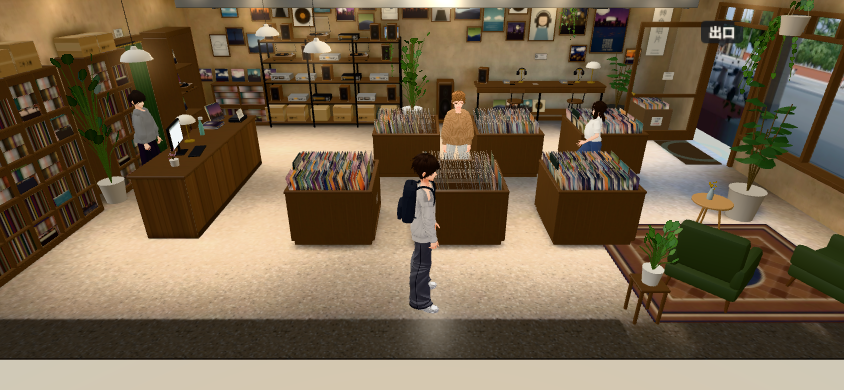
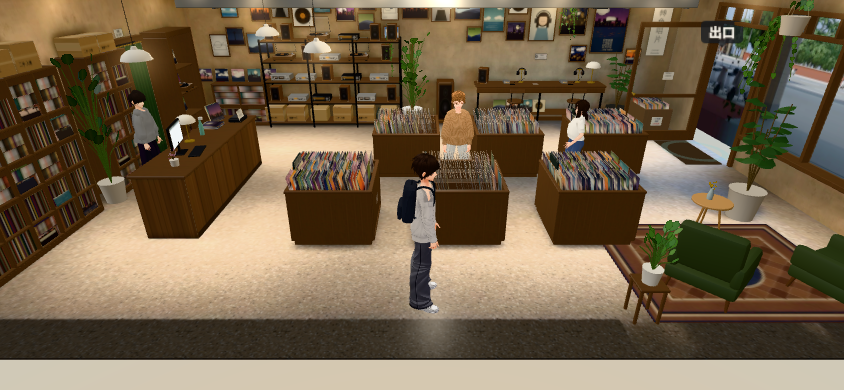
CC-local: RAY_1827 result (sha 1827999fb488a30bdaccedaa1561697b3266a498, exit 0, 110s)

Changed region(s): [[0.6469, 0.2462, 0.7393, 0.4]]

diff --git a/docs/story_planning/CC/local_out/summary.md b/docs/story_planning/CC/local_out/summary.md
@@ -2796,3 +2796,5 @@ fatal: 'C:/Users/USER/Documents/wt_cc_R8_rr2' already exists    [ 135.3s] main_p
       err.log (last 5): [gpu_wrap 4.0s] WEBGL_RENDERER: ANGLE (AMD, AMD Radeon RX 6600M (0x000073FF) Direct3D11 vs_5_0 ps_5_0, D3D11) | Google Inc. (AMD) | [gpu_wrap 69.1s] page close url=http://127.0.0.1:8802/index.html | [gpu_wrap 69.1s] BROWSER DISCONNECTED
 - 2026-11-10T17:27:27  TEA2_new  sha=edaedb2672eac7f5047d518e9c07f63b5e2f7537  exit=0  199s    PASS 210.0° 鏡頭轉到了（差 <6°）  207.1 / PASS 沒有 JS 例外  [] / ALL PASS
       err.log (last 5): �t�Χ䤣����w�����|�C | [gpu_wrap 4.2s] WEBGL_RENDERER: ANGLE (AMD, AMD Radeon RX 6600M (0x000073FF) Direct3D11 vs_5_0 ps_5_0, D3D11) | Google Inc. (AMD) | [gpu_wrap 138.1s] page close url=http://127.0.0.1:8800/index.html | [gpu_wrap 138.1s] BROWSER DISCONNECTED
+- 2026-11-10T17:29:18  RAY_1827  sha=1827999fb488a30bdaccedaa1561697b3266a498  exit=0  110s    PASS wz_print 每個像素都打到東西 / PASS 沒有 JS 例外  [] / ALL PASS
+      err.log (last 5): [gpu_wrap 4.0s] WEBGL_RENDERER: ANGLE (AMD, AMD Radeon RX 6600M (0x000073FF) Direct3D11 vs_5_0 ps_5_0, D3D11) | Google Inc. (AMD) | [gpu_wrap 70.4s] page close url=http://127.0.0.1:8800/index.html | [gpu_wrap 70.4s] BROWSER DISCONNECTED
